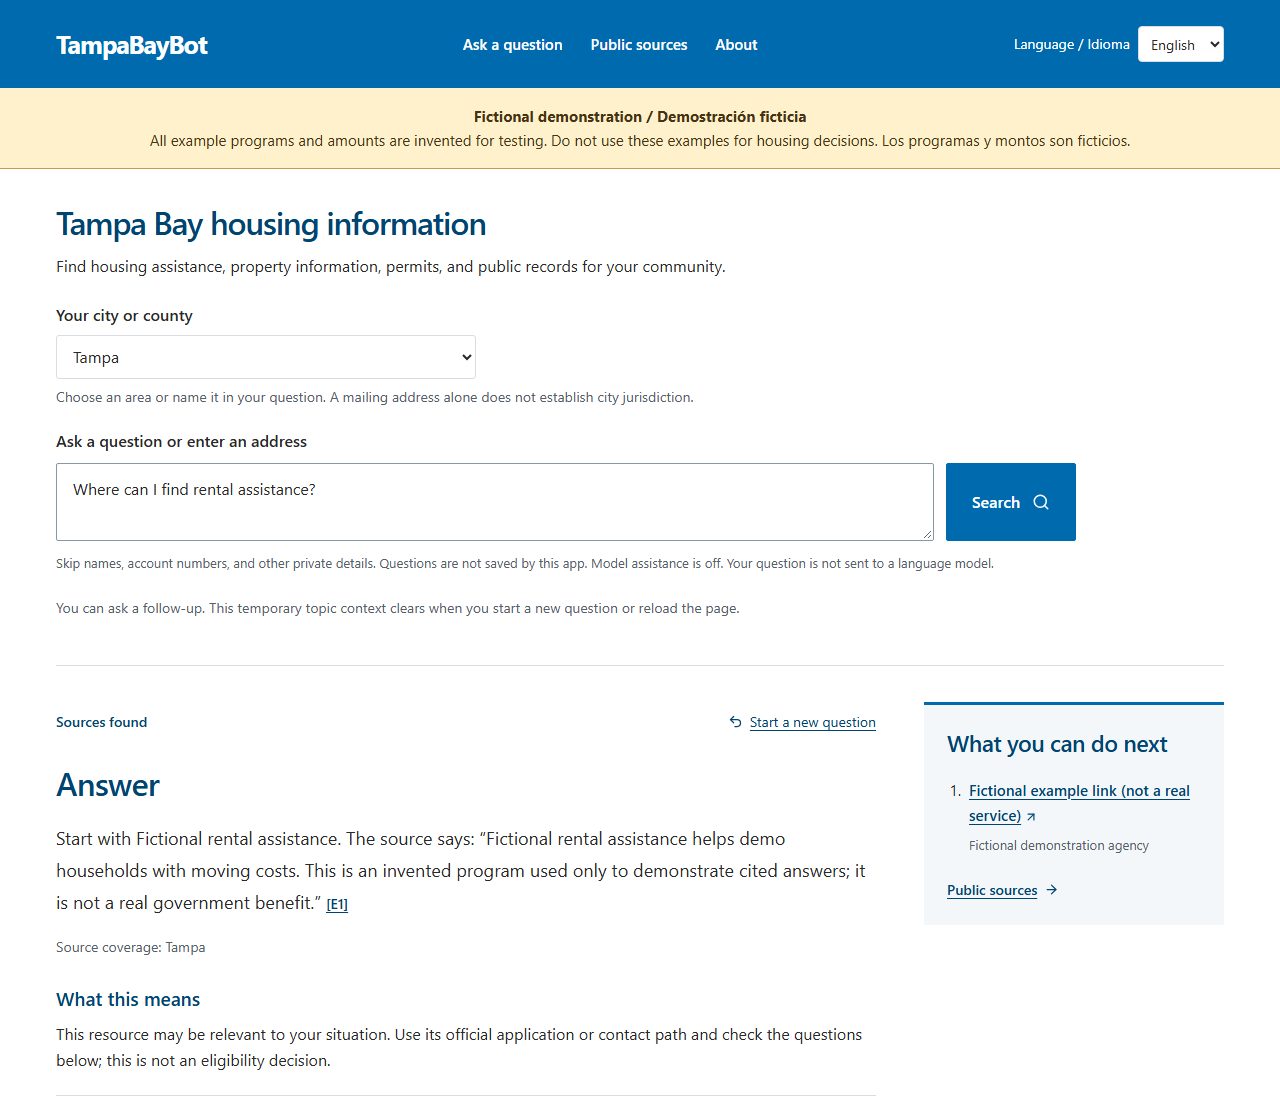
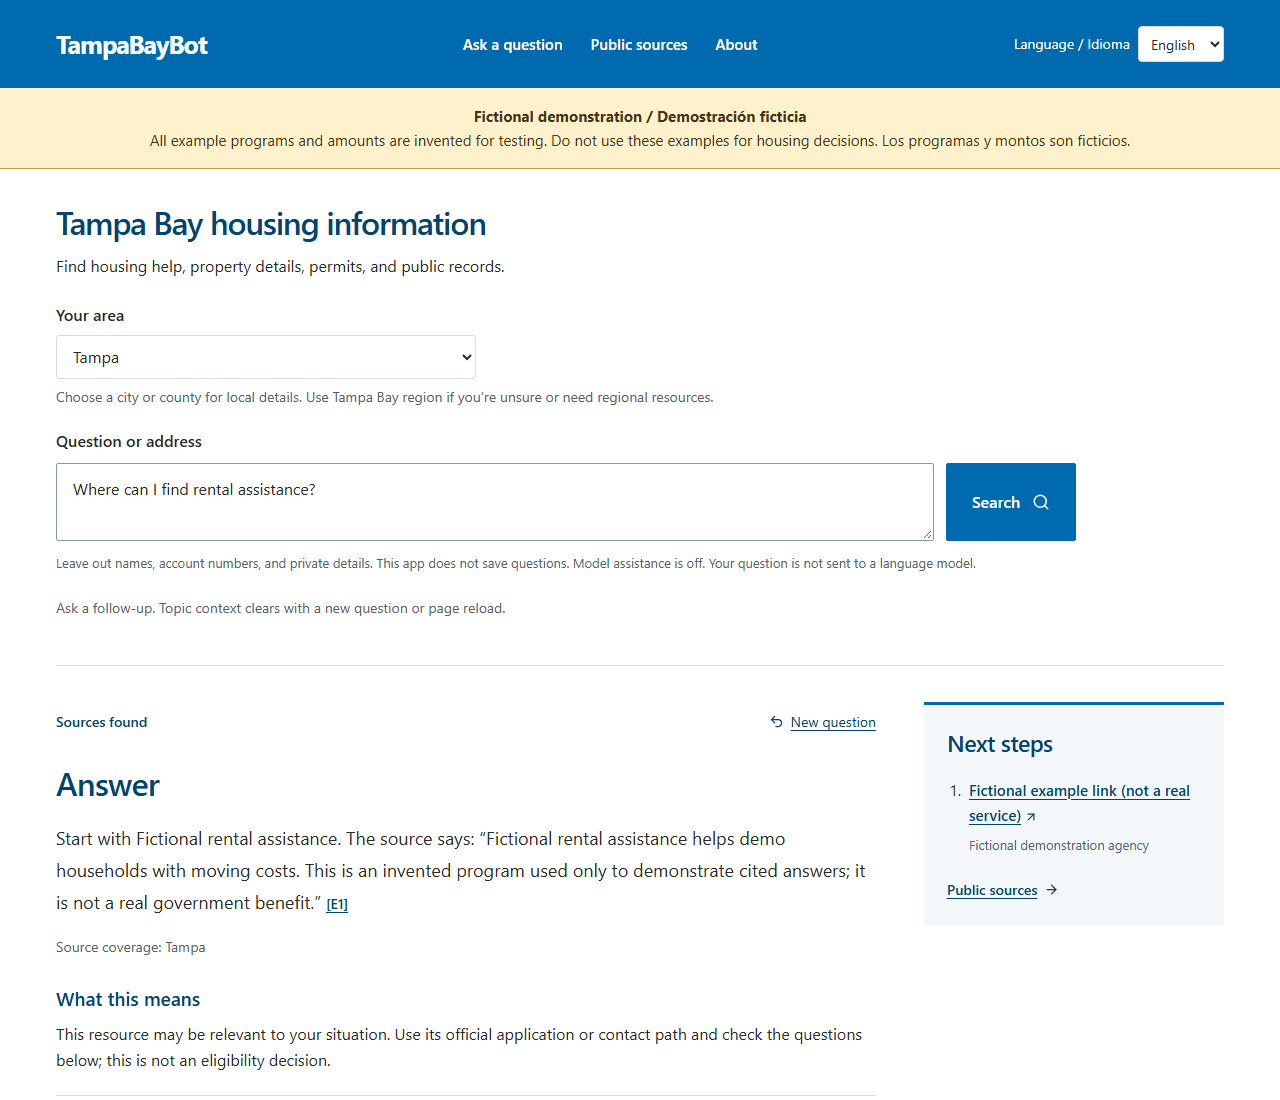
get rid of the photo

diff --git a/README.md b/README.md
@@ -28,8 +28,6 @@ npm run demo
 
 Open [localhost:3001](http://localhost:3001). The demo uses labeled fictional evidence in a separate directory and needs no account, API key, database or `.env` file. See [demo options and example questions](docs/DEMO.md).
 
-![TampaBayBot with clearly labeled fictional demo evidence](docs/images/demo.png)
-
 For real evidence, [stage, review and apply source updates](docs/SOURCE_UPDATES.md), then run `npm run dev -- --port 3001`. Source downloads and live geographic lookups need internet access.
 
 ## How it works
